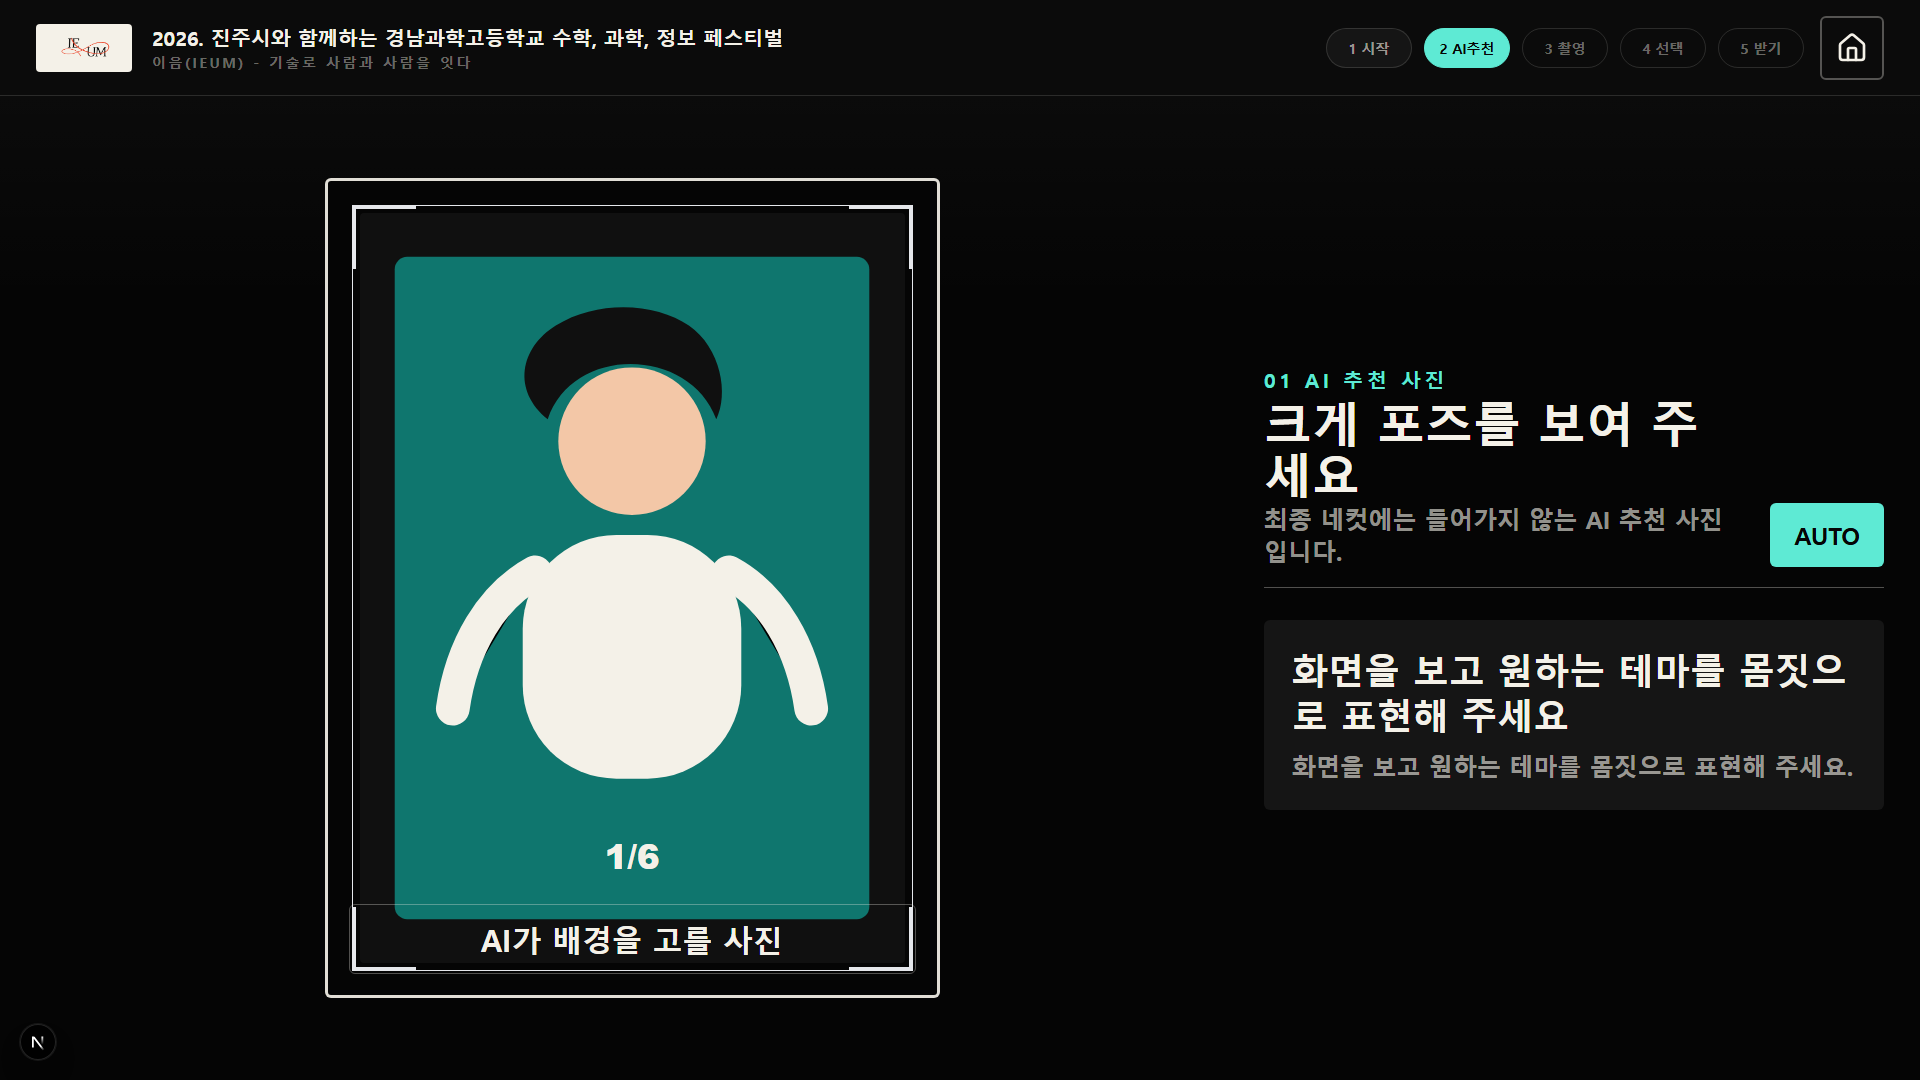
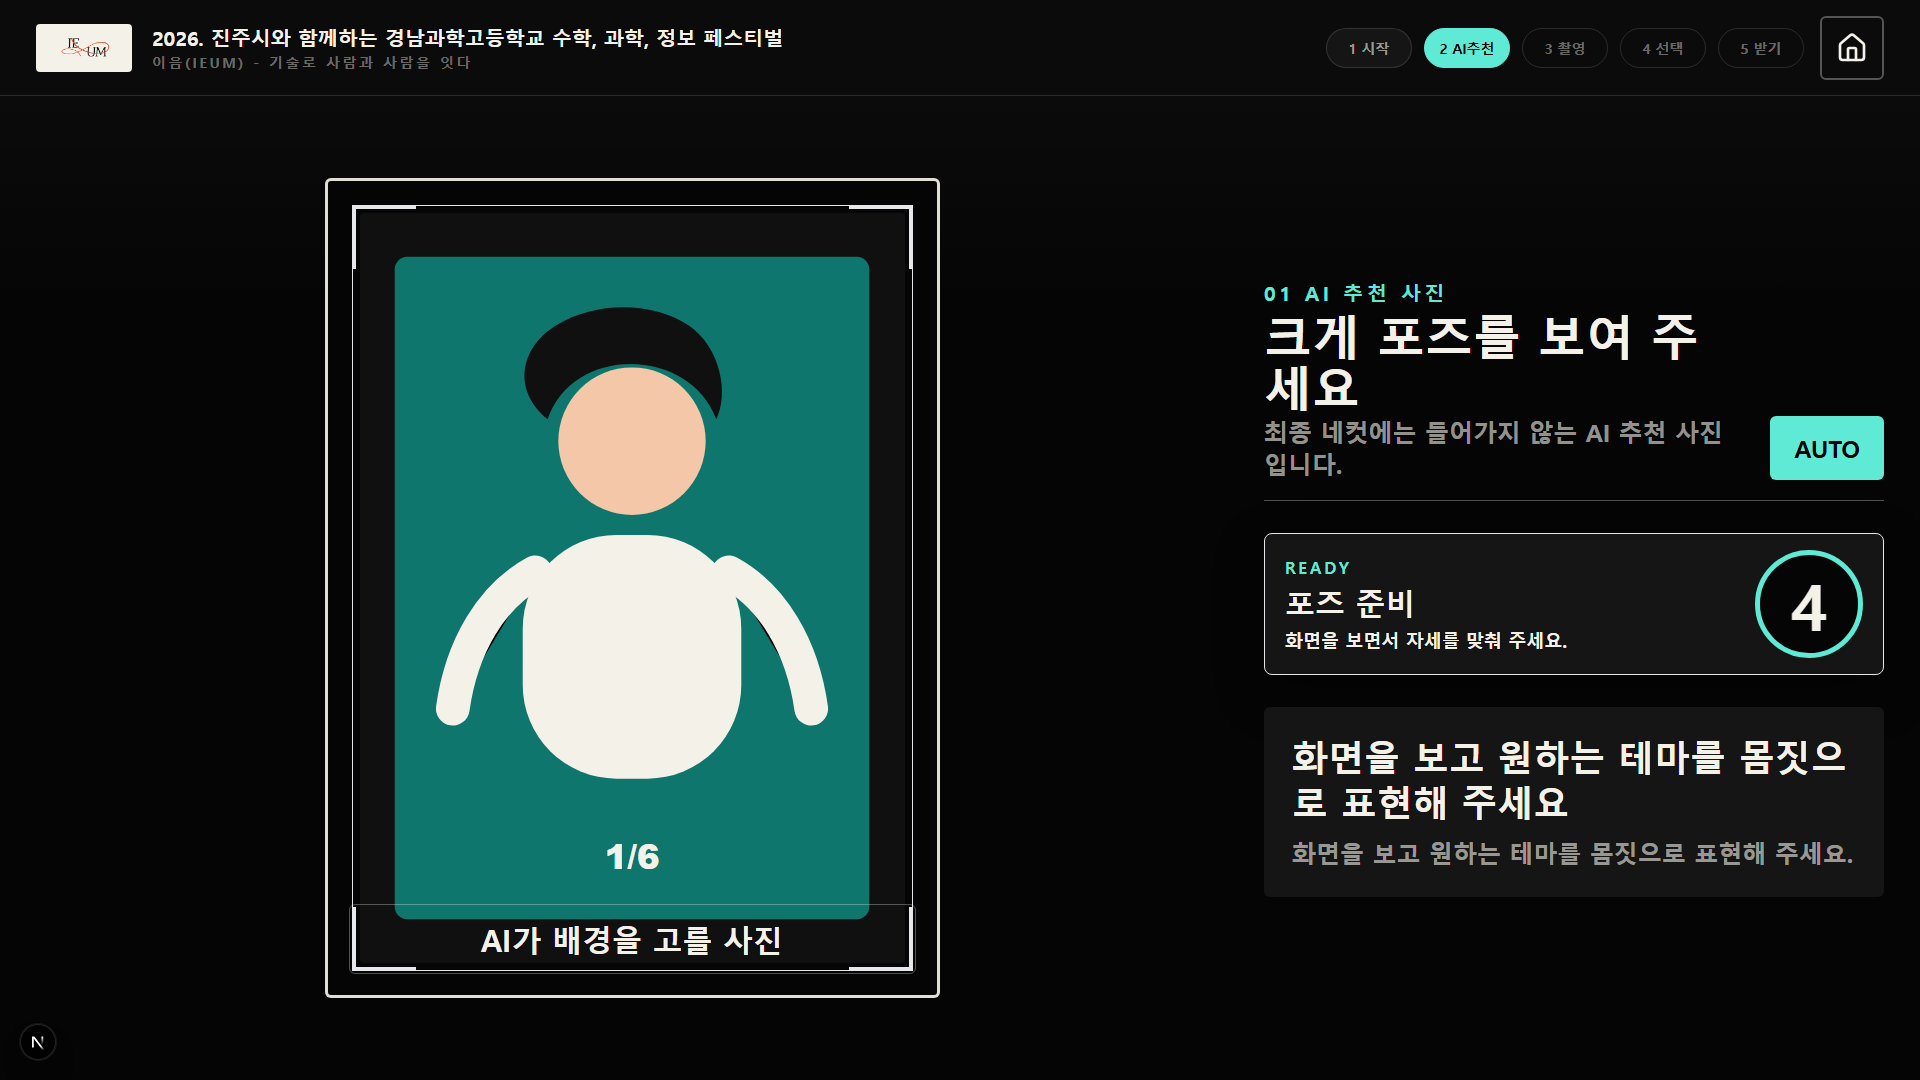
Move prep countdown out of camera view

Changed region(s): [[0.6562, 0.2444, 1.0, 0.825]]

diff --git a/components/Countdown.tsx b/components/Countdown.tsx
@@ -13,12 +13,12 @@ export function Countdown({ value, label, variant = "prep" }: CountdownProps) {
 
   if (variant === "shutter") {
     return (
-      <div className="pointer-events-none absolute inset-0 z-30 grid place-items-center bg-black/38 backdrop-blur-[1px]">
-        <div className="grid place-items-center gap-3 text-center" aria-live="assertive">
-          <div className="rounded-[4px] border-[3px] border-[#f04438] bg-[#f04438] px-7 py-2 text-3xl font-black text-[#f4f1e8]">
+      <div className="pointer-events-none absolute inset-0 z-30">
+        <div className="absolute right-4 top-4 grid place-items-center gap-1.5 text-center" aria-live="assertive">
+          <div className="rounded-[4px] bg-[#f04438] px-4 py-1.5 text-xl font-black text-[#f4f1e8] shadow-[0_8px_28px_rgba(0,0,0,0.42)]">
             {label ?? "촬영"}
           </div>
-          <div className="text-[180px] font-black leading-none text-[#f4f1e8] drop-shadow-[0_8px_28px_rgba(0,0,0,0.72)]">
+          <div className="grid h-24 w-24 place-items-center rounded-full border-[5px] border-[#f04438] bg-[#050505]/58 text-[62px] font-black leading-none text-[#f4f1e8] shadow-[0_10px_34px_rgba(0,0,0,0.48)]">
             {value}
           </div>
         </div>
@@ -27,19 +27,21 @@ export function Countdown({ value, label, variant = "prep" }: CountdownProps) {
   }
 
   return (
-    <div className="pointer-events-none fixed inset-0 z-50 grid place-items-center bg-[#050505]/92 backdrop-blur-sm">
+    <div className="pointer-events-none w-full">
       <div
-        className="grid min-w-[560px] place-items-center gap-6 rounded-[4px] border-[4px] border-[#f4f1e8] bg-[#0b0b0b] px-12 py-10 text-center shadow-[0_0_80px_rgba(244,241,232,0.12)]"
+        className="grid grid-cols-[1fr_108px] items-center gap-5 rounded-[8px] border border-[#5eead4]/44 bg-[#151515] px-5 py-4 text-left shadow-[0_18px_48px_rgba(0,0,0,0.34)]"
         aria-live="assertive"
       >
-        <div className="rounded-[4px] border-[3px] border-[#f4f1e8]/70 px-6 py-2 text-2xl font-black tracking-[0.22em] text-[#f4f1e8]/72">
-          POSE READY
+        <div className="min-w-0">
+          <div className="text-base font-black tracking-[0.18em] text-[#5eead4]">READY</div>
+          {label && <div className="mt-1 text-3xl font-black text-[#f4f1e8]">{label}</div>}
+          <p className="mt-2 safe-text text-lg font-black leading-snug text-[#f4f1e8]/62">
+            화면을 보면서 자세를 맞춰 주세요.
+          </p>
         </div>
-        {label && <div className="text-5xl font-black text-[#f4f1e8]">{label}</div>}
-        <div className="flex h-56 w-56 items-center justify-center rounded-full border-[8px] border-[#f4f1e8] bg-transparent text-[138px] font-black leading-none text-[#f4f1e8]">
+        <div className="grid h-[108px] w-[108px] place-items-center rounded-full border-[5px] border-[#5eead4] bg-[#050505] text-[64px] font-black leading-none text-[#f4f1e8]">
           {value}
         </div>
-        <p className="text-3xl font-black text-[#f4f1e8]/62">자세를 바꾸고 화면을 바라봐 주세요</p>
       </div>
     </div>
   );

diff --git a/components/BoothApp.tsx b/components/BoothApp.tsx
@@ -578,6 +578,7 @@ export function BoothApp() {
 
     const params = new URLSearchParams(window.location.search);
     const screenshotStep = params.get("screenshotStep") as Step | null;
+    const screenshotCountdown = params.get("screenshotCountdown");
     if (!screenshotStep || !(screenshotStep in STEP_STAGE)) {
       return;
     }
@@ -607,6 +608,17 @@ export function BoothApp() {
     setShotStatus(screenshotStep === "capture" ? SHOT_MISSIONS[1] : "화면을 보고 원하는 테마를 몸짓으로 표현해 주세요");
     setFinalUrl(demoFinalDataUrl());
     setCompleteTitle("완료");
+    if (screenshotCountdown === "prep") {
+      setCountdownMode("prep");
+      setCountdownLabel(screenshotStep === "capture" ? "포즈 변경" : "포즈 준비");
+      setCountdown(4);
+    } else if (screenshotCountdown === "shutter") {
+      setCountdownMode("shutter");
+      setCountdownLabel("촬영");
+      setCountdown(3);
+    } else {
+      clearCountdown();
+    }
     setStep(screenshotStep);
   }, []);
 
@@ -1088,7 +1100,6 @@ export function BoothApp() {
 
   return (
     <main className="kiosk-root">
-      <Countdown value={countdownMode === "prep" ? countdown : null} label={countdownLabel} variant="prep" />
       <div className="photoism-theme kiosk-screen bg-[#050505] text-[#f4f1e8]">
         <KioskHeader step={step} onRestart={() => void restart()} />
 
@@ -1286,6 +1297,7 @@ export function BoothApp() {
                         className="h-full w-full rounded-[4px] object-cover"
                       />
                       <CameraGuideOverlay />
+                      <Countdown value={countdownMode === "shutter" ? countdown : null} label={countdownLabel} variant="shutter" />
                     </div>
                   ) : (
                     <CameraPreview
@@ -1310,6 +1322,7 @@ export function BoothApp() {
                   compact
                   right={<div className="rounded-[6px] bg-[var(--primary)] px-6 py-4 text-2xl font-black text-[var(--primary-text)]">AUTO</div>}
                 />
+                <Countdown value={countdownMode === "prep" ? countdown : null} label={countdownLabel} variant="prep" />
                 {step === "capture" && <CaptureRail captured={capturedPhotos} activeIndex={shotIndex} count={FINAL_CAPTURE_COUNT} />}
                 {step === "capture" && backgroundStatus !== "idle" && (
                   <BackgroundProgress status={backgroundStatus} progress={backgroundProgress} error={backgroundError} compact />
